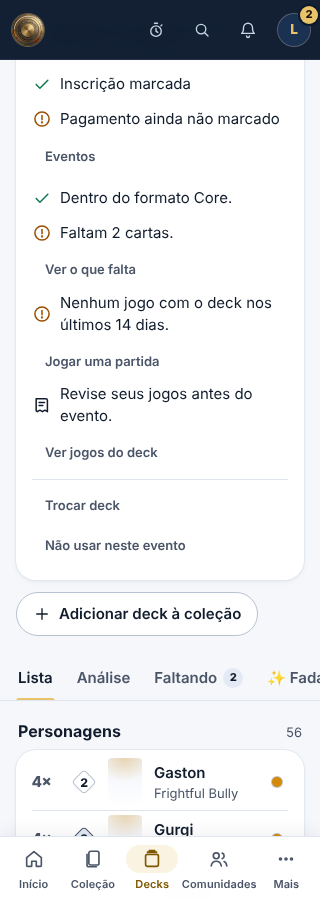
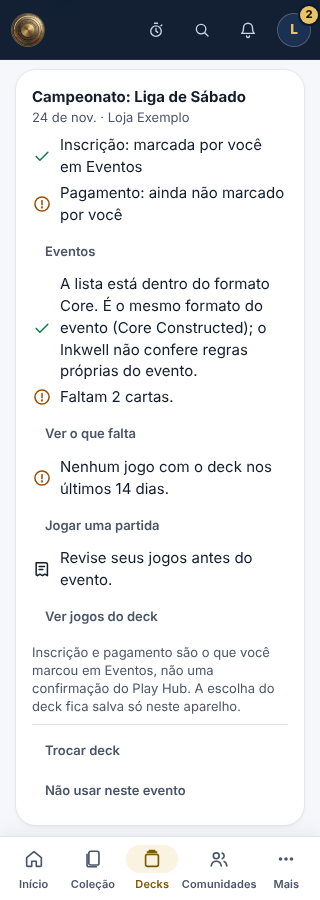
fix(decks): campeonato — ajustes do Conselho
- Formato: usa o formato do evento informado pelo Play Hub (Core/Infinity/
  limitado) e nunca diz "legal no evento"; sem formato no evento, avisa que
  conferiu só o formato do deck.
- Escolha de deck só para evento futuro marcado "Vou", inclusive por link direto.
- Inscrição e pagamento: "marcada por você em Eventos", não confirmação do Play Hub.
- A escolha fica neste aparelho (sem migração), dito na tela.

Claude-Session: https://claude.ai/code/session_01FVbTkUiCCiwGnRgKq7JAgu

diff --git a/site/decks/index.html b/site/decks/index.html
@@ -529,7 +529,7 @@ const CARD_INDEX = {"generated_at":"2026-10-19T12:50:22Z","sets":[{"code":"D100"
     "Some of these cards aren't free anymore. Reload and try again.": "Algumas destas cartas não estão mais livres. Recarregue e tente de novo.", "Try it with an example deck": "Experimentar com um deck de exemplo", "Example deck": "Deck de exemplo", "Amber/Steel, made to show the tool — not a competitive list. Change it as you like.": "Âmbar/Aço, feito para mostrar a ferramenta — não é lista competitiva. Mude à vontade.", "{v} estimated (MYP Cards, else TCGplayer)": "{v} estimados (MYP Cards; sem anúncio lá, TCGplayer)", "estimate": "estimativa",
     "Estimate in reais: {s}, updated {d}. A card with no price is left out of the total, never counted as zero.": "Estimativa em reais: {s}, atualizado em {d}. Carta sem preço fica fora do total, nunca conta como zero.",
     "lowest MYP Cards listing ({d}); without one, {s}": "menor anúncio na MYP Cards ({d}); sem anúncio lá, {s}", "{n} can come from friends": "{n} podem vir de amigos", "{n} can come from friends_1": "1 pode vir de amigos",
-    "You have every card for this deck.": "Você tem todas as cartas deste deck.", "Getting ready for {e}": "Preparação para {e}", "the event": "o evento", "Which deck will you play?": "Qual deck você vai jogar?", "not legal": "fora do formato", "1 missing": "falta 1", "{n} missing": "faltam {n}", "Tournament: {e}": "Campeonato: {e}", "Change deck": "Trocar deck", "Not for this event": "Não usar neste evento", "Registration marked": "Inscrição marcada", "Registration not marked yet": "Inscrição ainda não marcada", "Events": "Eventos", "Payment marked": "Pagamento marcado", "Payment not marked yet": "Pagamento ainda não marcado", "The list has {n} of {m} cards.": "A lista tem {n} de {m} cartas.", "Not legal in its format.": "Fora do formato.", "Legal in {f}.": "Dentro do formato {f}.", "See the list": "Ver lista", "You have every card.": "Você tem todas as cartas.", "1 card missing.": "Falta 1 carta.", "{n} cards missing.": "Faltam {n} cartas.", "See what's missing": "Ver o que falta", "1 game with this deck in the last 14 days.": "1 jogo com o deck nos últimos 14 dias.", "{n} games with this deck in the last 14 days.": "{n} jogos com o deck nos últimos 14 dias.", "No games with this deck in the last 14 days.": "Nenhum jogo com o deck nos últimos 14 dias.", "Play a game": "Jogar uma partida", "Review your games before the event.": "Revise seus jogos antes do evento.", "See its games": "Ver jogos do deck", "Copies lent to friends still count as yours.": "Cópias emprestadas a amigos contam como suas.", "Play a game": "Jogar uma partida", "See its games": "Ver jogos do deck", "Your collection is empty, so every card shows as missing.": "Sua coleção ainda está vazia, então todas as cartas aparecem como faltando.", "Add your cards and this tab shows only what you really lack.": "Cadastre suas cartas e esta aba mostra só o que falta de verdade.", "Add my cards": "Cadastrar minhas cartas", "I own this deck": "Já tenho este deck", "Deck imported: 1 card missing from your collection.": "Deck importado: falta 1 carta na sua coleção.", "Deck imported: {n} cards missing from your collection.": "Deck importado: faltam {n} cartas na sua coleção.", "See what's missing": "Ver o que falta", "Deck imported: you have every card.": "Deck importado: você tem todas as cartas.", "Copies lent to friends still count as yours.": "Cópias emprestadas a amigos contam como suas.",
+    "You have every card for this deck.": "Você tem todas as cartas deste deck.", "Getting ready for {e}": "Preparação para {e}", "Getting a deck ready works for future events you marked “Going” in Events.": "A preparação vale para eventos futuros que você marcou como “Vou” em Eventos.", "The choice is saved on this device only.": "A escolha fica salva só neste aparelho.", "{e} event: decks are built at the event, so this list doesn't apply.": "Evento {e}: o deck é montado no próprio evento, então esta lista não se aplica.", "The event is {e}; this deck is set to {f}. Check the deck's format.": "O evento é {e}; este deck está como {f}. Confira o formato do deck.", "The list is within {f}.": "A lista está dentro do formato {f}.", "Same format as the event ({e}); the Inkwell doesn't check the event's own rules.": "É o mesmo formato do evento ({e}); o Inkwell não confere regras próprias do evento.", "Checked only against the deck's format; the event doesn't say its format.": "Conferido só pelo formato do deck; o evento não informa o formato.", "Registration: you marked it in Events": "Inscrição: marcada por você em Eventos", "Registration: not marked by you yet": "Inscrição: ainda não marcada por você", "Payment: you marked it in Events": "Pagamento: marcado por você em Eventos", "Payment: not marked by you yet": "Pagamento: ainda não marcado por você", "Registration and payment are what you marked in Events, not checked with the Play Hub. The deck choice is saved on this device only.": "Inscrição e pagamento são o que você marcou em Eventos, não uma confirmação do Play Hub. A escolha do deck fica salva só neste aparelho.", "the event": "o evento", "Which deck will you play?": "Qual deck você vai jogar?", "not legal": "fora do formato", "1 missing": "falta 1", "{n} missing": "faltam {n}", "Tournament: {e}": "Campeonato: {e}", "Change deck": "Trocar deck", "Not for this event": "Não usar neste evento", "Registration marked": "Inscrição marcada", "Registration not marked yet": "Inscrição ainda não marcada", "Events": "Eventos", "Payment marked": "Pagamento marcado", "Payment not marked yet": "Pagamento ainda não marcado", "The list has {n} of {m} cards.": "A lista tem {n} de {m} cartas.", "Not legal in its format.": "Fora do formato.", "Legal in {f}.": "Dentro do formato {f}.", "See the list": "Ver lista", "You have every card.": "Você tem todas as cartas.", "1 card missing.": "Falta 1 carta.", "{n} cards missing.": "Faltam {n} cartas.", "See what's missing": "Ver o que falta", "1 game with this deck in the last 14 days.": "1 jogo com o deck nos últimos 14 dias.", "{n} games with this deck in the last 14 days.": "{n} jogos com o deck nos últimos 14 dias.", "No games with this deck in the last 14 days.": "Nenhum jogo com o deck nos últimos 14 dias.", "Play a game": "Jogar uma partida", "Review your games before the event.": "Revise seus jogos antes do evento.", "See its games": "Ver jogos do deck", "Copies lent to friends still count as yours.": "Cópias emprestadas a amigos contam como suas.", "Play a game": "Jogar uma partida", "See its games": "Ver jogos do deck", "Your collection is empty, so every card shows as missing.": "Sua coleção ainda está vazia, então todas as cartas aparecem como faltando.", "Add your cards and this tab shows only what you really lack.": "Cadastre suas cartas e esta aba mostra só o que falta de verdade.", "Add my cards": "Cadastrar minhas cartas", "I own this deck": "Já tenho este deck", "Deck imported: 1 card missing from your collection.": "Deck importado: falta 1 carta na sua coleção.", "Deck imported: {n} cards missing from your collection.": "Deck importado: faltam {n} cartas na sua coleção.", "See what's missing": "Ver o que falta", "Deck imported: you have every card.": "Deck importado: você tem todas as cartas.", "Copies lent to friends still count as yours.": "Cópias emprestadas a amigos contam como suas.",
     "Lends": "Empresta", "Trades": "Troca", "Has it": "Possui", "{who} offers it in trade": "{who} oferece em troca", "{n} on the board": "{n} no Mural", "Profile of {who}": "Perfil de {who}",
     "How to complete it": "Como completar", "Buying all of it: about {v} at market price": "Comprando tudo: cerca de {v} pelo preço de mercado", "Friends offered": "Amigos ofereceram", "Lending costs nothing; a trade asks for cards of yours in return. Each friend decides.": "Empréstimo não tem custo; troca pede cartas suas em troca. Cada amigo decide.",
     "On the board": "No Mural", "For sale on the board, at the price in the listing.": "À venda no Mural, pelo preço do anúncio.", "To buy": "Para comprar", "No one offered these. The stores open in another tab.": "Ninguém ofereceu estas. As lojas abrem em outra aba.",
@@ -758,28 +758,40 @@ const CARD_INDEX = {"generated_at":"2026-10-19T12:50:22Z","sets":[{"code":"D100"
   const upcoming = () => MARKS.filter((x) => x?.snap?.start && x.status === "going" && Date.parse(x.snap.start) > Date.now() - 6 * 3600e3).sort((a, b) => Date.parse(a.snap.start) - Date.parse(b.snap.start));
   const evWhenWhere = (x) => [dateFmt(x.snap.start), x.snap.store].filter(Boolean).join(" · ");
   function prepPick() {   // Decks with ?evento=<id> (Eventos › "Preparar meu deck"): which deck goes to this event
-    const rph = new URLSearchParams(location.search).get("evento"), ev = rph && MARKS.find((x) => String(x.rph_id) === rph);
-    if (!ev || !decks().length) return "";
+    const rph = new URLSearchParams(location.search).get("evento"); if (!rph || !me) return "";
+    const ev = upcoming().find((x) => String(x.rph_id) === rph);   // only a future event marked "Vou", even from a direct link (Conselho 19/11)
+    if (!ev) return `<p class="small muted" data-testid="prep-unavailable" style="margin:0 0 var(--sp-3)">${esc(Tx("Getting a deck ready works for future events you marked “Going” in Events."))}</p>`;
+    if (!decks().length) return "";
     const cur = evDeck(ev.rph_id);
     return `<section class="card stack prep" style="gap:var(--sp-2);margin-bottom:var(--sp-4)" data-testid="prep-pick"><b>${esc(Tx("Getting ready for {e}", { e: ev.snap?.name || Tx("the event") }))}</b>
       <span class="small muted">${esc(evWhenWhere(ev))} · ${esc(Tx("Which deck will you play?"))}</span>
+      <span class="small muted">${esc(Tx("The choice is saved on this device only."))}</span>
       <div class="row" style="gap:var(--sp-2)">${decks().map((d) => { const m = measure(d); return `<button type="button" class="btn small${cur === d.id ? " primary" : ""}" data-prep-deck="${esc(d.id)}" data-ev="${esc(String(ev.rph_id))}">${esc(d.name)}${m.legal && !m.missingN ? "" : ` <span class="small muted">· ${esc(!m.legal ? Tx("not legal") : Tx(m.missingN === 1 ? "1 missing" : "{n} missing", { n: m.missingN }))}</span>`}</button>`; }).join("")}</div></section>`;
   }
   function prepBox(d, m) {   // on the deck chosen for my next marked event: a short checklist from real data
     const ev = me && upcoming().find((x) => evDeck(x.rph_id) === d.id); if (!ev) return "";
     const recent = m.games.filter((g) => Date.parse(g.at) > Date.now() - 14 * 86400e3).length;
     const act = (k, label) => k.startsWith("../") ? `<a class="btn small ghost" href="${k}">${esc(label)}</a>` : `<button type="button" class="btn small ghost" data-prep-tab="${k}">${esc(label)}</button>`;
-    const item = (ok, text, k, label, id) => `<li class="prep-i" data-testid="prep-${id}" data-ok="${ok}"><i class="ic ${ok ? "i-check" : "i-alert"}"></i><span>${esc(text)}</span>${k && !ok ? act(k, label) : ""}</li>`;
-    const fmtOk = m.legal, fmtText = m.total < MIN ? Tx("The list has {n} of {m} cards.", { n: m.total, m: MIN }) : !m.legal ? (m.issues[0]?.text || Tx("Not legal in its format.")) : Tx("Legal in {f}.", { f: fmtName(d.format) });
+    const item = (ok, text, k, label, id) => `<li class="prep-i" data-testid="prep-${id}" data-ok="${ok}"><i class="ic ${ok === null ? "i-info" : ok ? "i-check" : "i-alert"}"></i><span>${esc(text)}</span>${k && ok === false ? act(k, label) : ""}</li>`;
+    // the list against the deck's own format (measure), and the event's format as the Play Hub names it (Eventos keeps it in
+    // the mark). The Inkwell knows no store rules, so a match is never called "legal in the event" (Conselho 19/11).
+    const evF = String(ev.snap.format || ""), evKind = /core/i.test(evF) ? "core" : /infinity/i.test(evF) ? "infinity" : /sealed|draft|pack rush/i.test(evF) ? "limited" : "";
+    const dF = d.format || "core", fmtName_ = fmtName(dF);
+    let fmtOk = m.legal, fmtText;
+    if (evKind === "limited") { fmtOk = null; fmtText = Tx("{e} event: decks are built at the event, so this list doesn't apply.", { e: evF }); }
+    else if (evKind && evKind !== dF) { fmtOk = false; fmtText = Tx("The event is {e}; this deck is set to {f}. Check the deck's format.", { e: evF, f: fmtName_ }); }
+    else { const base = m.total < MIN ? Tx("The list has {n} of {m} cards.", { n: m.total, m: MIN }) : !m.legal ? (m.issues[0]?.text || Tx("Not legal in its format.")) : Tx("The list is within {f}.", { f: fmtName_ });
+      fmtText = base + " " + (evKind ? Tx("Same format as the event ({e}); the Inkwell doesn't check the event's own rules.", { e: evF }) : Tx("Checked only against the deck's format; the event doesn't say its format.")); }
     return `<section class="card stack prep" style="gap:var(--sp-2);margin-top:var(--sp-4)" data-testid="event-prep"><span><b>${esc(Tx("Tournament: {e}", { e: ev.snap.name || Tx("the event") }))}</b><span class="small muted" style="display:block">${esc(evWhenWhere(ev))}</span></span>
       <ul class="prep-list">
-        ${item(!!ev.registered, ev.registered ? Tx("Registration marked") : Tx("Registration not marked yet"), "../eventos/", Tx("Events"), "registered")}
-        ${item(!!ev.paid, ev.paid ? Tx("Payment marked") : Tx("Payment not marked yet"), "../eventos/", Tx("Events"), "paid")}
+        ${item(!!ev.registered, ev.registered ? Tx("Registration: you marked it in Events") : Tx("Registration: not marked by you yet"), "../eventos/", Tx("Events"), "registered")}
+        ${item(!!ev.paid, ev.paid ? Tx("Payment: you marked it in Events") : Tx("Payment: not marked by you yet"), "../eventos/", Tx("Events"), "paid")}
         ${item(fmtOk, fmtText, "list", Tx("See the list"), "legal")}
         ${item(!m.missingN, !m.missingN ? Tx("You have every card.") : Tx(m.missingN === 1 ? "1 card missing." : "{n} cards missing.", { n: m.missingN }), "missing", Tx("See what's missing"), "missing")}
         ${item(recent > 0, recent ? Tx(recent === 1 ? "1 game with this deck in the last 14 days." : "{n} games with this deck in the last 14 days.", { n: recent }) : Tx("No games with this deck in the last 14 days."), "../counter/?new", Tx("Play a game"), "practice")}
         ${m.games.length ? `<li class="prep-i" data-testid="prep-review"><i class="ic i-games"></i><span>${esc(Tx("Review your games before the event."))}</span>${act("games", Tx("See its games"))}</li>` : ""}
       </ul>
+      <p class="small muted" style="margin:0" data-testid="prep-note">${esc(Tx("Registration and payment are what you marked in Events, not checked with the Play Hub. The deck choice is saved on this device only."))}</p>
       <div class="row" style="gap:var(--sp-1);border-top:1px solid var(--line);padding-top:var(--sp-2)"><a class="btn small ghost" href="./?evento=${encodeURIComponent(ev.rph_id)}">${Tx("Change deck")}</a><button type="button" class="btn small ghost" data-prep-clear="${esc(String(ev.rph_id))}">${Tx("Not for this event")}</button></div></section>`;
   }
   const collHas = () => Object.values(coll()).some((e) => (+e?.n || 0) + (+e?.f || 0) > 0);   // an empty collection makes every card "missing"

diff --git a/src/site/decks/decks.template.html b/src/site/decks/decks.template.html
@@ -191,7 +191,7 @@ textarea.paste { width: 100%; min-height: 200px; font: inherit; font-size: var(-
     "Some of these cards aren't free anymore. Reload and try again.": "Algumas destas cartas não estão mais livres. Recarregue e tente de novo.", "Try it with an example deck": "Experimentar com um deck de exemplo", "Example deck": "Deck de exemplo", "Amber/Steel, made to show the tool — not a competitive list. Change it as you like.": "Âmbar/Aço, feito para mostrar a ferramenta — não é lista competitiva. Mude à vontade.", "{v} estimated (MYP Cards, else TCGplayer)": "{v} estimados (MYP Cards; sem anúncio lá, TCGplayer)", "estimate": "estimativa",
     "Estimate in reais: {s}, updated {d}. A card with no price is left out of the total, never counted as zero.": "Estimativa em reais: {s}, atualizado em {d}. Carta sem preço fica fora do total, nunca conta como zero.",
     "lowest MYP Cards listing ({d}); without one, {s}": "menor anúncio na MYP Cards ({d}); sem anúncio lá, {s}", "{n} can come from friends": "{n} podem vir de amigos", "{n} can come from friends_1": "1 pode vir de amigos",
-    "You have every card for this deck.": "Você tem todas as cartas deste deck.", "Getting ready for {e}": "Preparação para {e}", "the event": "o evento", "Which deck will you play?": "Qual deck você vai jogar?", "not legal": "fora do formato", "1 missing": "falta 1", "{n} missing": "faltam {n}", "Tournament: {e}": "Campeonato: {e}", "Change deck": "Trocar deck", "Not for this event": "Não usar neste evento", "Registration marked": "Inscrição marcada", "Registration not marked yet": "Inscrição ainda não marcada", "Events": "Eventos", "Payment marked": "Pagamento marcado", "Payment not marked yet": "Pagamento ainda não marcado", "The list has {n} of {m} cards.": "A lista tem {n} de {m} cartas.", "Not legal in its format.": "Fora do formato.", "Legal in {f}.": "Dentro do formato {f}.", "See the list": "Ver lista", "You have every card.": "Você tem todas as cartas.", "1 card missing.": "Falta 1 carta.", "{n} cards missing.": "Faltam {n} cartas.", "See what's missing": "Ver o que falta", "1 game with this deck in the last 14 days.": "1 jogo com o deck nos últimos 14 dias.", "{n} games with this deck in the last 14 days.": "{n} jogos com o deck nos últimos 14 dias.", "No games with this deck in the last 14 days.": "Nenhum jogo com o deck nos últimos 14 dias.", "Play a game": "Jogar uma partida", "Review your games before the event.": "Revise seus jogos antes do evento.", "See its games": "Ver jogos do deck", "Copies lent to friends still count as yours.": "Cópias emprestadas a amigos contam como suas.", "Play a game": "Jogar uma partida", "See its games": "Ver jogos do deck", "Your collection is empty, so every card shows as missing.": "Sua coleção ainda está vazia, então todas as cartas aparecem como faltando.", "Add your cards and this tab shows only what you really lack.": "Cadastre suas cartas e esta aba mostra só o que falta de verdade.", "Add my cards": "Cadastrar minhas cartas", "I own this deck": "Já tenho este deck", "Deck imported: 1 card missing from your collection.": "Deck importado: falta 1 carta na sua coleção.", "Deck imported: {n} cards missing from your collection.": "Deck importado: faltam {n} cartas na sua coleção.", "See what's missing": "Ver o que falta", "Deck imported: you have every card.": "Deck importado: você tem todas as cartas.", "Copies lent to friends still count as yours.": "Cópias emprestadas a amigos contam como suas.",
+    "You have every card for this deck.": "Você tem todas as cartas deste deck.", "Getting ready for {e}": "Preparação para {e}", "Getting a deck ready works for future events you marked “Going” in Events.": "A preparação vale para eventos futuros que você marcou como “Vou” em Eventos.", "The choice is saved on this device only.": "A escolha fica salva só neste aparelho.", "{e} event: decks are built at the event, so this list doesn't apply.": "Evento {e}: o deck é montado no próprio evento, então esta lista não se aplica.", "The event is {e}; this deck is set to {f}. Check the deck's format.": "O evento é {e}; este deck está como {f}. Confira o formato do deck.", "The list is within {f}.": "A lista está dentro do formato {f}.", "Same format as the event ({e}); the Inkwell doesn't check the event's own rules.": "É o mesmo formato do evento ({e}); o Inkwell não confere regras próprias do evento.", "Checked only against the deck's format; the event doesn't say its format.": "Conferido só pelo formato do deck; o evento não informa o formato.", "Registration: you marked it in Events": "Inscrição: marcada por você em Eventos", "Registration: not marked by you yet": "Inscrição: ainda não marcada por você", "Payment: you marked it in Events": "Pagamento: marcado por você em Eventos", "Payment: not marked by you yet": "Pagamento: ainda não marcado por você", "Registration and payment are what you marked in Events, not checked with the Play Hub. The deck choice is saved on this device only.": "Inscrição e pagamento são o que você marcou em Eventos, não uma confirmação do Play Hub. A escolha do deck fica salva só neste aparelho.", "the event": "o evento", "Which deck will you play?": "Qual deck você vai jogar?", "not legal": "fora do formato", "1 missing": "falta 1", "{n} missing": "faltam {n}", "Tournament: {e}": "Campeonato: {e}", "Change deck": "Trocar deck", "Not for this event": "Não usar neste evento", "Registration marked": "Inscrição marcada", "Registration not marked yet": "Inscrição ainda não marcada", "Events": "Eventos", "Payment marked": "Pagamento marcado", "Payment not marked yet": "Pagamento ainda não marcado", "The list has {n} of {m} cards.": "A lista tem {n} de {m} cartas.", "Not legal in its format.": "Fora do formato.", "Legal in {f}.": "Dentro do formato {f}.", "See the list": "Ver lista", "You have every card.": "Você tem todas as cartas.", "1 card missing.": "Falta 1 carta.", "{n} cards missing.": "Faltam {n} cartas.", "See what's missing": "Ver o que falta", "1 game with this deck in the last 14 days.": "1 jogo com o deck nos últimos 14 dias.", "{n} games with this deck in the last 14 days.": "{n} jogos com o deck nos últimos 14 dias.", "No games with this deck in the last 14 days.": "Nenhum jogo com o deck nos últimos 14 dias.", "Play a game": "Jogar uma partida", "Review your games before the event.": "Revise seus jogos antes do evento.", "See its games": "Ver jogos do deck", "Copies lent to friends still count as yours.": "Cópias emprestadas a amigos contam como suas.", "Play a game": "Jogar uma partida", "See its games": "Ver jogos do deck", "Your collection is empty, so every card shows as missing.": "Sua coleção ainda está vazia, então todas as cartas aparecem como faltando.", "Add your cards and this tab shows only what you really lack.": "Cadastre suas cartas e esta aba mostra só o que falta de verdade.", "Add my cards": "Cadastrar minhas cartas", "I own this deck": "Já tenho este deck", "Deck imported: 1 card missing from your collection.": "Deck importado: falta 1 carta na sua coleção.", "Deck imported: {n} cards missing from your collection.": "Deck importado: faltam {n} cartas na sua coleção.", "See what's missing": "Ver o que falta", "Deck imported: you have every card.": "Deck importado: você tem todas as cartas.", "Copies lent to friends still count as yours.": "Cópias emprestadas a amigos contam como suas.",
     "Lends": "Empresta", "Trades": "Troca", "Has it": "Possui", "{who} offers it in trade": "{who} oferece em troca", "{n} on the board": "{n} no Mural", "Profile of {who}": "Perfil de {who}",
     "How to complete it": "Como completar", "Buying all of it: about {v} at market price": "Comprando tudo: cerca de {v} pelo preço de mercado", "Friends offered": "Amigos ofereceram", "Lending costs nothing; a trade asks for cards of yours in return. Each friend decides.": "Empréstimo não tem custo; troca pede cartas suas em troca. Cada amigo decide.",
     "On the board": "No Mural", "For sale on the board, at the price in the listing.": "À venda no Mural, pelo preço do anúncio.", "To buy": "Para comprar", "No one offered these. The stores open in another tab.": "Ninguém ofereceu estas. As lojas abrem em outra aba.",
@@ -355,28 +355,40 @@ textarea.paste { width: 100%; min-height: 200px; font: inherit; font-size: var(-
   const upcoming = () => MARKS.filter((x) => x?.snap?.start && x.status === "going" && Date.parse(x.snap.start) > Date.now() - 6 * 3600e3).sort((a, b) => Date.parse(a.snap.start) - Date.parse(b.snap.start));
   const evWhenWhere = (x) => [dateFmt(x.snap.start), x.snap.store].filter(Boolean).join(" · ");
   function prepPick() {   // Decks with ?evento=<id> (Eventos › "Preparar meu deck"): which deck goes to this event
-    const rph = new URLSearchParams(location.search).get("evento"), ev = rph && MARKS.find((x) => String(x.rph_id) === rph);
-    if (!ev || !decks().length) return "";
+    const rph = new URLSearchParams(location.search).get("evento"); if (!rph || !me) return "";
+    const ev = upcoming().find((x) => String(x.rph_id) === rph);   // only a future event marked "Vou", even from a direct link (Conselho 19/11)
+    if (!ev) return `<p class="small muted" data-testid="prep-unavailable" style="margin:0 0 var(--sp-3)">${esc(Tx("Getting a deck ready works for future events you marked “Going” in Events."))}</p>`;
+    if (!decks().length) return "";
     const cur = evDeck(ev.rph_id);
     return `<section class="card stack prep" style="gap:var(--sp-2);margin-bottom:var(--sp-4)" data-testid="prep-pick"><b>${esc(Tx("Getting ready for {e}", { e: ev.snap?.name || Tx("the event") }))}</b>
       <span class="small muted">${esc(evWhenWhere(ev))} · ${esc(Tx("Which deck will you play?"))}</span>
+      <span class="small muted">${esc(Tx("The choice is saved on this device only."))}</span>
       <div class="row" style="gap:var(--sp-2)">${decks().map((d) => { const m = measure(d); return `<button type="button" class="btn small${cur === d.id ? " primary" : ""}" data-prep-deck="${esc(d.id)}" data-ev="${esc(String(ev.rph_id))}">${esc(d.name)}${m.legal && !m.missingN ? "" : ` <span class="small muted">· ${esc(!m.legal ? Tx("not legal") : Tx(m.missingN === 1 ? "1 missing" : "{n} missing", { n: m.missingN }))}</span>`}</button>`; }).join("")}</div></section>`;
   }
   function prepBox(d, m) {   // on the deck chosen for my next marked event: a short checklist from real data
     const ev = me && upcoming().find((x) => evDeck(x.rph_id) === d.id); if (!ev) return "";
     const recent = m.games.filter((g) => Date.parse(g.at) > Date.now() - 14 * 86400e3).length;
     const act = (k, label) => k.startsWith("../") ? `<a class="btn small ghost" href="${k}">${esc(label)}</a>` : `<button type="button" class="btn small ghost" data-prep-tab="${k}">${esc(label)}</button>`;
-    const item = (ok, text, k, label, id) => `<li class="prep-i" data-testid="prep-${id}" data-ok="${ok}"><i class="ic ${ok ? "i-check" : "i-alert"}"></i><span>${esc(text)}</span>${k && !ok ? act(k, label) : ""}</li>`;
-    const fmtOk = m.legal, fmtText = m.total < MIN ? Tx("The list has {n} of {m} cards.", { n: m.total, m: MIN }) : !m.legal ? (m.issues[0]?.text || Tx("Not legal in its format.")) : Tx("Legal in {f}.", { f: fmtName(d.format) });
+    const item = (ok, text, k, label, id) => `<li class="prep-i" data-testid="prep-${id}" data-ok="${ok}"><i class="ic ${ok === null ? "i-info" : ok ? "i-check" : "i-alert"}"></i><span>${esc(text)}</span>${k && ok === false ? act(k, label) : ""}</li>`;
+    // the list against the deck's own format (measure), and the event's format as the Play Hub names it (Eventos keeps it in
+    // the mark). The Inkwell knows no store rules, so a match is never called "legal in the event" (Conselho 19/11).
+    const evF = String(ev.snap.format || ""), evKind = /core/i.test(evF) ? "core" : /infinity/i.test(evF) ? "infinity" : /sealed|draft|pack rush/i.test(evF) ? "limited" : "";
+    const dF = d.format || "core", fmtName_ = fmtName(dF);
+    let fmtOk = m.legal, fmtText;
+    if (evKind === "limited") { fmtOk = null; fmtText = Tx("{e} event: decks are built at the event, so this list doesn't apply.", { e: evF }); }
+    else if (evKind && evKind !== dF) { fmtOk = false; fmtText = Tx("The event is {e}; this deck is set to {f}. Check the deck's format.", { e: evF, f: fmtName_ }); }
+    else { const base = m.total < MIN ? Tx("The list has {n} of {m} cards.", { n: m.total, m: MIN }) : !m.legal ? (m.issues[0]?.text || Tx("Not legal in its format.")) : Tx("The list is within {f}.", { f: fmtName_ });
+      fmtText = base + " " + (evKind ? Tx("Same format as the event ({e}); the Inkwell doesn't check the event's own rules.", { e: evF }) : Tx("Checked only against the deck's format; the event doesn't say its format.")); }
     return `<section class="card stack prep" style="gap:var(--sp-2);margin-top:var(--sp-4)" data-testid="event-prep"><span><b>${esc(Tx("Tournament: {e}", { e: ev.snap.name || Tx("the event") }))}</b><span class="small muted" style="display:block">${esc(evWhenWhere(ev))}</span></span>
       <ul class="prep-list">
-        ${item(!!ev.registered, ev.registered ? Tx("Registration marked") : Tx("Registration not marked yet"), "../eventos/", Tx("Events"), "registered")}
-        ${item(!!ev.paid, ev.paid ? Tx("Payment marked") : Tx("Payment not marked yet"), "../eventos/", Tx("Events"), "paid")}
+        ${item(!!ev.registered, ev.registered ? Tx("Registration: you marked it in Events") : Tx("Registration: not marked by you yet"), "../eventos/", Tx("Events"), "registered")}
+        ${item(!!ev.paid, ev.paid ? Tx("Payment: you marked it in Events") : Tx("Payment: not marked by you yet"), "../eventos/", Tx("Events"), "paid")}
         ${item(fmtOk, fmtText, "list", Tx("See the list"), "legal")}
         ${item(!m.missingN, !m.missingN ? Tx("You have every card.") : Tx(m.missingN === 1 ? "1 card missing." : "{n} cards missing.", { n: m.missingN }), "missing", Tx("See what's missing"), "missing")}
         ${item(recent > 0, recent ? Tx(recent === 1 ? "1 game with this deck in the last 14 days." : "{n} games with this deck in the last 14 days.", { n: recent }) : Tx("No games with this deck in the last 14 days."), "../counter/?new", Tx("Play a game"), "practice")}
         ${m.games.length ? `<li class="prep-i" data-testid="prep-review"><i class="ic i-games"></i><span>${esc(Tx("Review your games before the event."))}</span>${act("games", Tx("See its games"))}</li>` : ""}
       </ul>
+      <p class="small muted" style="margin:0" data-testid="prep-note">${esc(Tx("Registration and payment are what you marked in Events, not checked with the Play Hub. The deck choice is saved on this device only."))}</p>
       <div class="row" style="gap:var(--sp-1);border-top:1px solid var(--line);padding-top:var(--sp-2)"><a class="btn small ghost" href="./?evento=${encodeURIComponent(ev.rph_id)}">${Tx("Change deck")}</a><button type="button" class="btn small ghost" data-prep-clear="${esc(String(ev.rph_id))}">${Tx("Not for this event")}</button></div></section>`;
   }
   const collHas = () => Object.values(coll()).some((e) => (+e?.n || 0) + (+e?.f || 0) > 0);   // an empty collection makes every card "missing"
